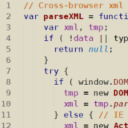
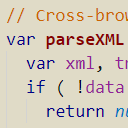
v1.2.2

diff --git a/CHANGELOG.md b/CHANGELOG.md
@@ -4,6 +4,15 @@ All notable changes to the "Daobeam" extension will be documented in this file.
 The format is based on [Keep a Changelog](http://keepachangelog.com/en/1.0.0/)
 and this project adheres to [Semantic Versioning](http://semver.org/spec/v2.0.0.html).
 
+## [1.2.2] - 2018-08-31
+### Changed
+- Syntax coloring
+    - `require()` colored like library functions, only not italic
+    - Object literal "module" and key colored like JSON (for example, in webpack.config.js)
+    - Comments changed from #CC6600 to #BF6000, which I feel is slightly more readable
+- Change log
+    - Correction to user settings recommendations
+
 ## [1.2.1] - 2018-08-26
 ### Changed
 - Editor

diff --git a/README.md b/README.md
@@ -52,7 +52,7 @@ In my CSS screenshots, notice how the property values are all the same color (go
     "editor.fontFamily": "Consolas",
     "editor.fontSize": 18,
     "workbench.colorTheme": "Daobeam",
-    "files.autoSave": "off",
+    "files.autoSave": "onFocusChange",
     "editor.wordWrap": "on",
 }
 ```
